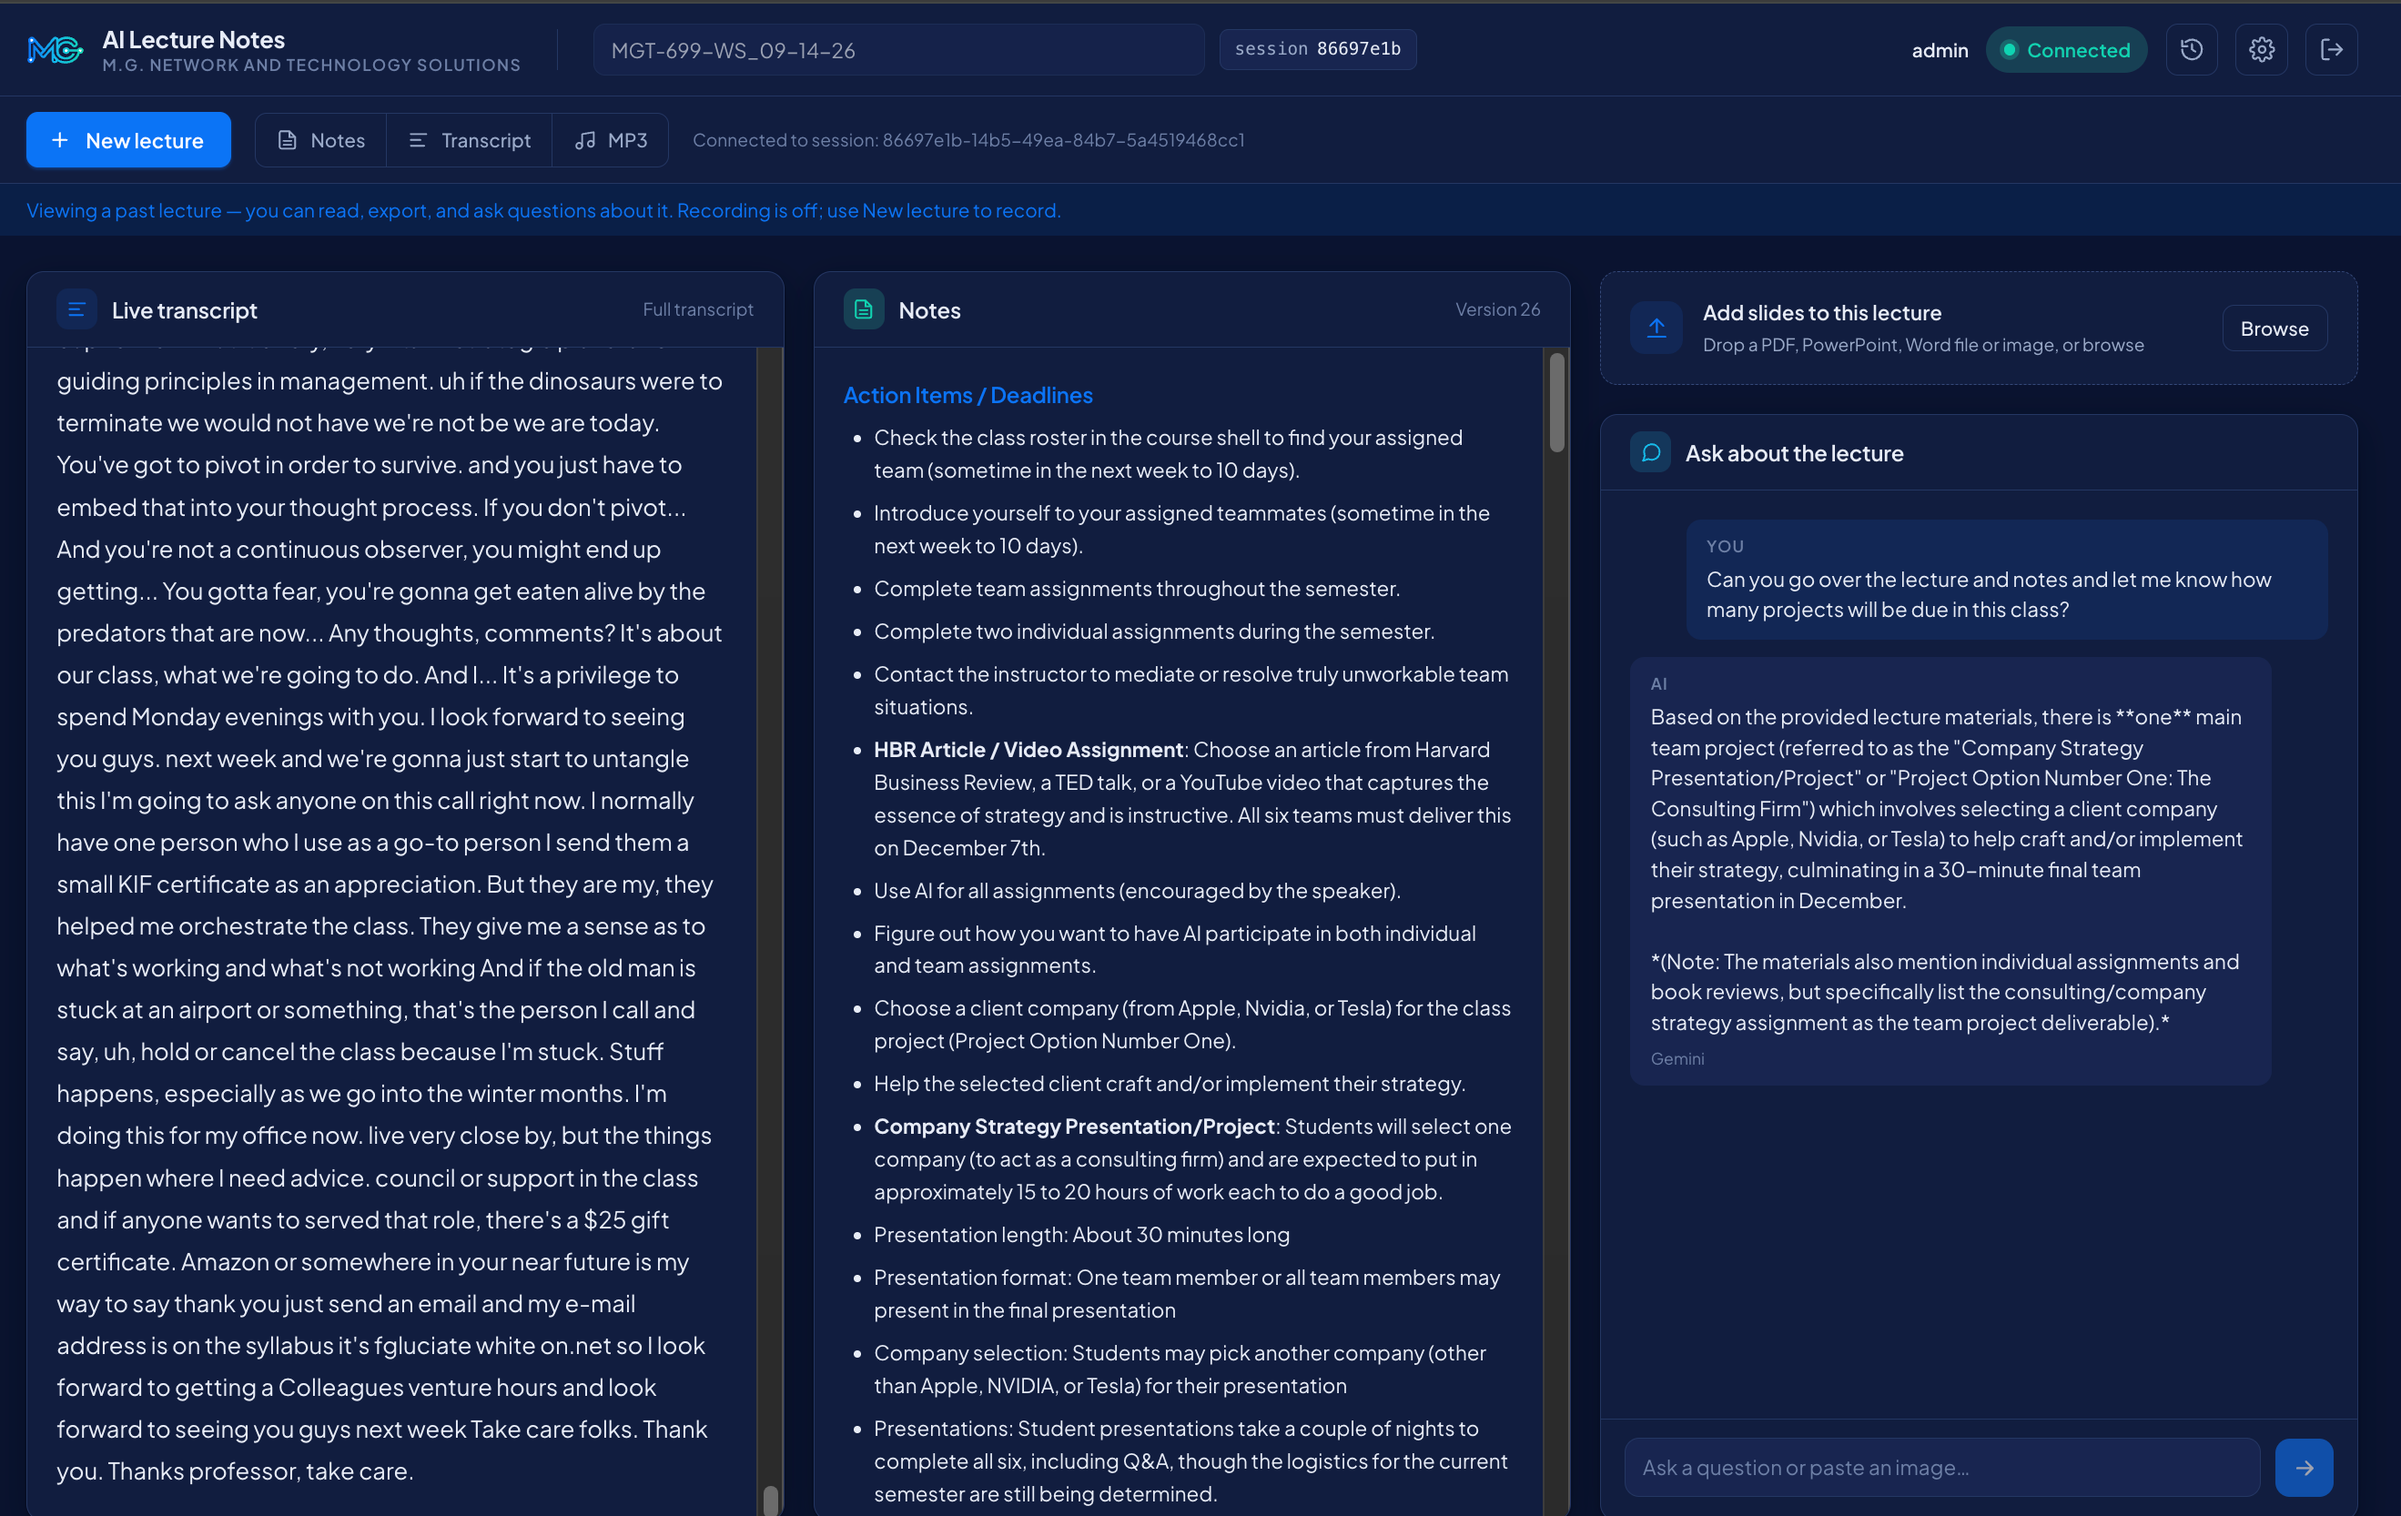
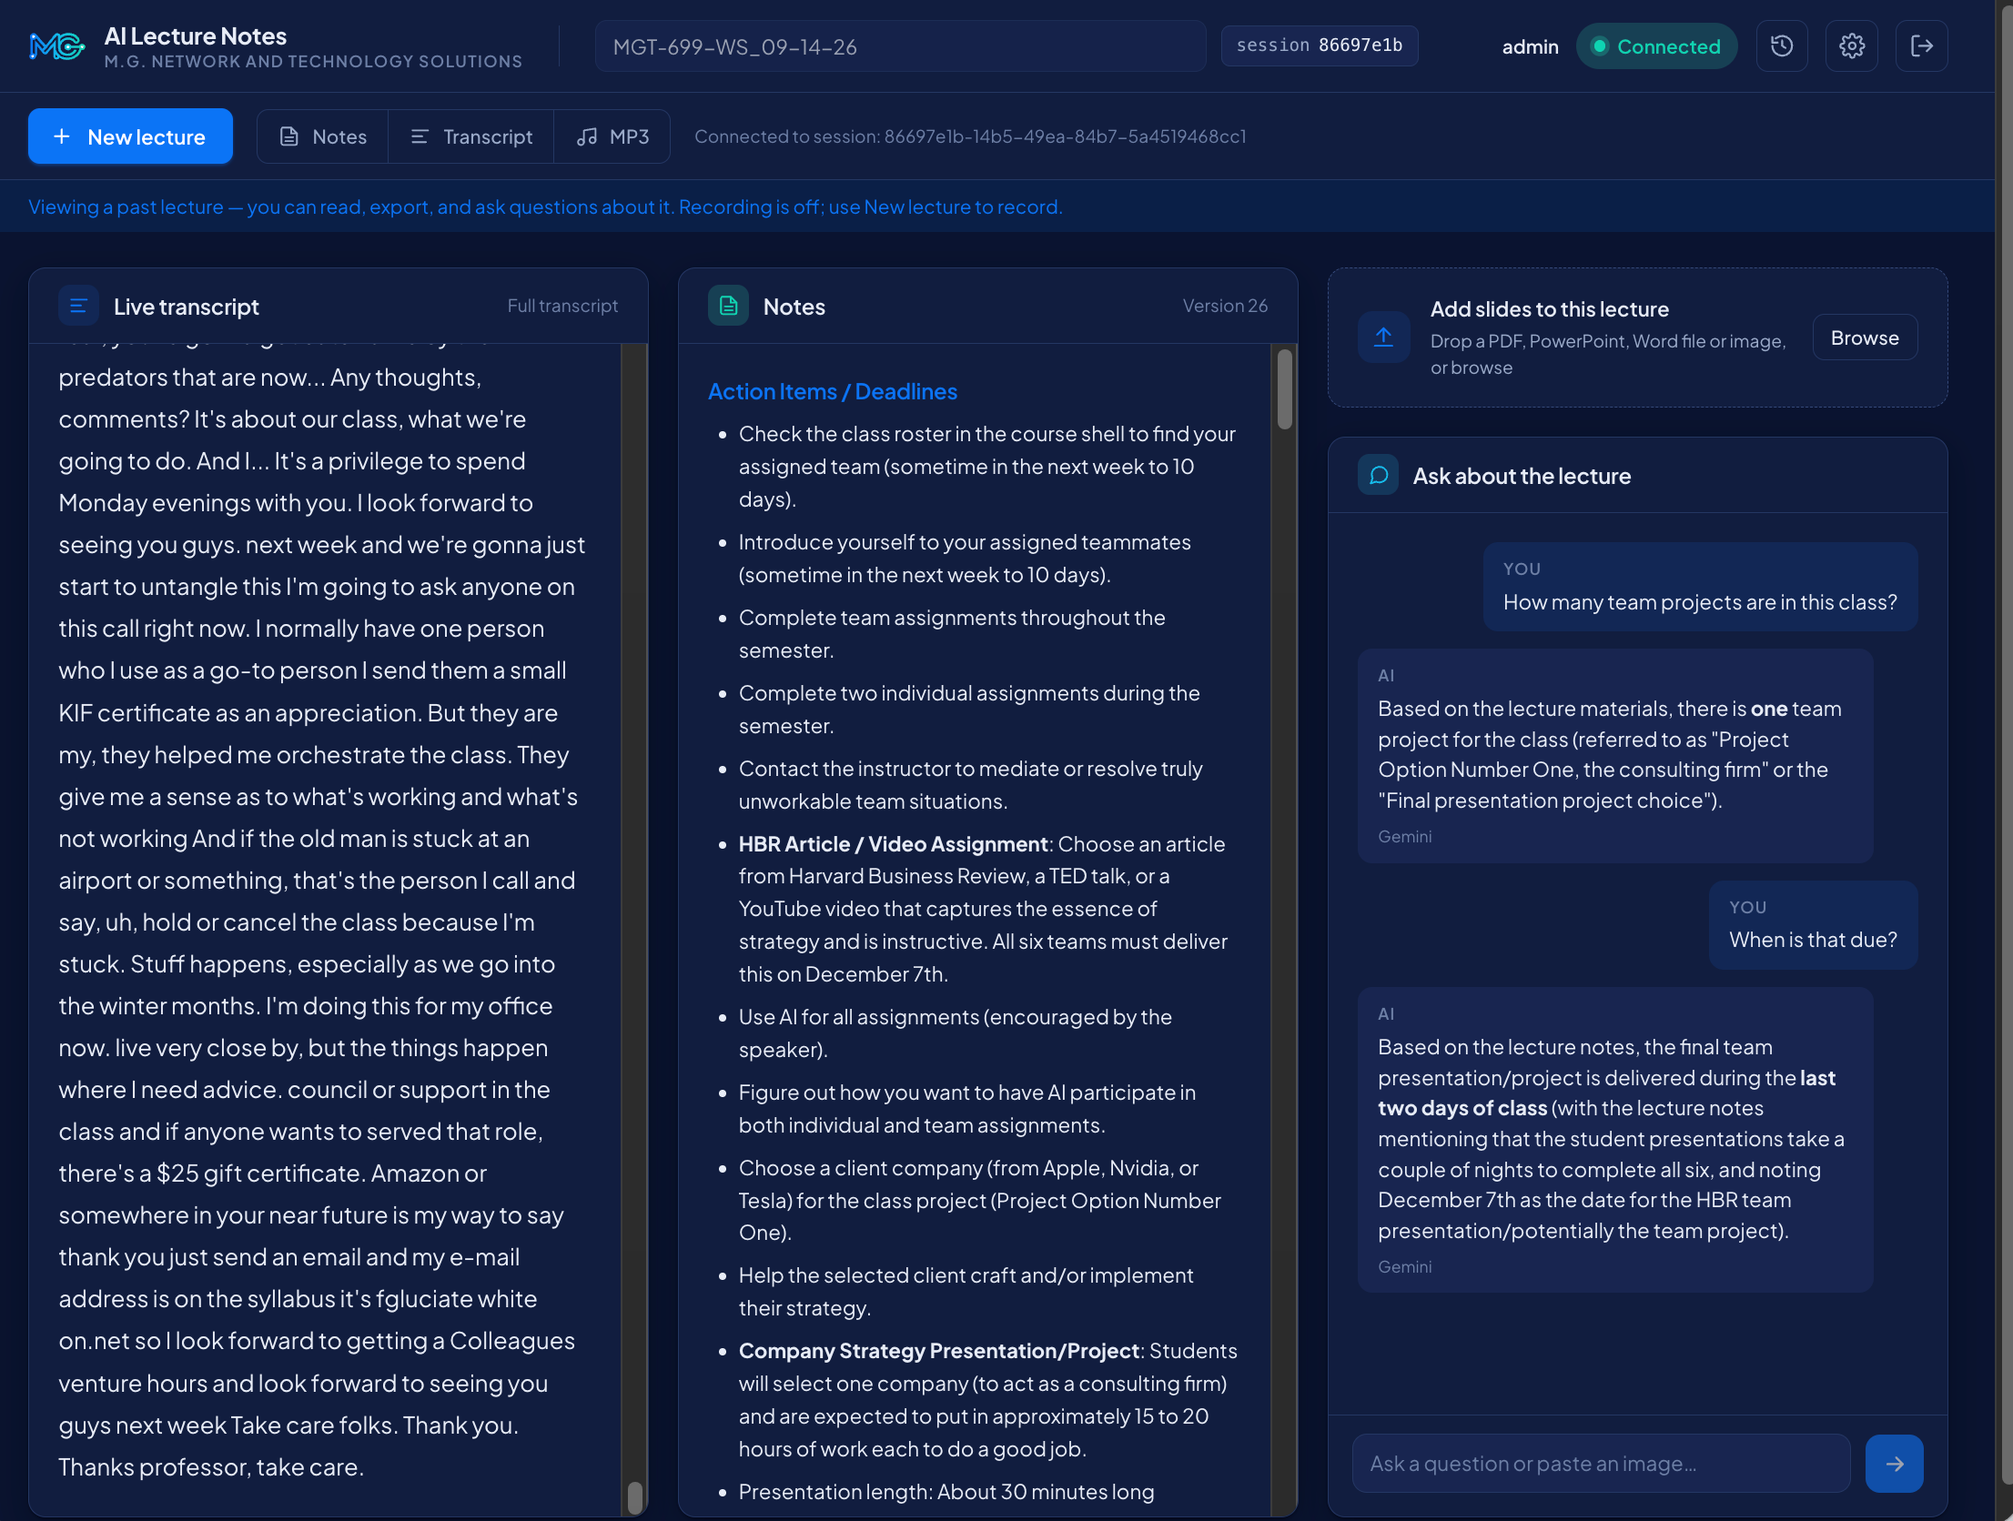
README: retaken lecture screenshots (Markdown chat, follow-up question)
Claude-Session: https://claude.ai/code/session_0118yYMbF3E8uFWZPW3Uqf3F

diff --git a/README.md b/README.md
@@ -14,9 +14,9 @@ optional.
 
 **By M.G. Network and Technology Solutions.**
 
-![A past lecture open in dark mode: full transcript on the left, generated notes in the middle, and the chat answering a question about the lecture on the right](design/screenshots/lecture-dark.png)
+![A past lecture open in dark mode: full transcript on the left, generated notes in the middle, and the chat on the right answering a question and then a follow-up about the lecture](design/screenshots/lecture-dark.png)
 
-<p align="center"><em>Transcript, generated notes, and "Ask about the lecture" — dark mode.</em></p>
+<p align="center"><em>Transcript, generated notes, and "Ask about the lecture" — with a follow-up question, dark mode.</em></p>
 
 | | |
 |---|---|
